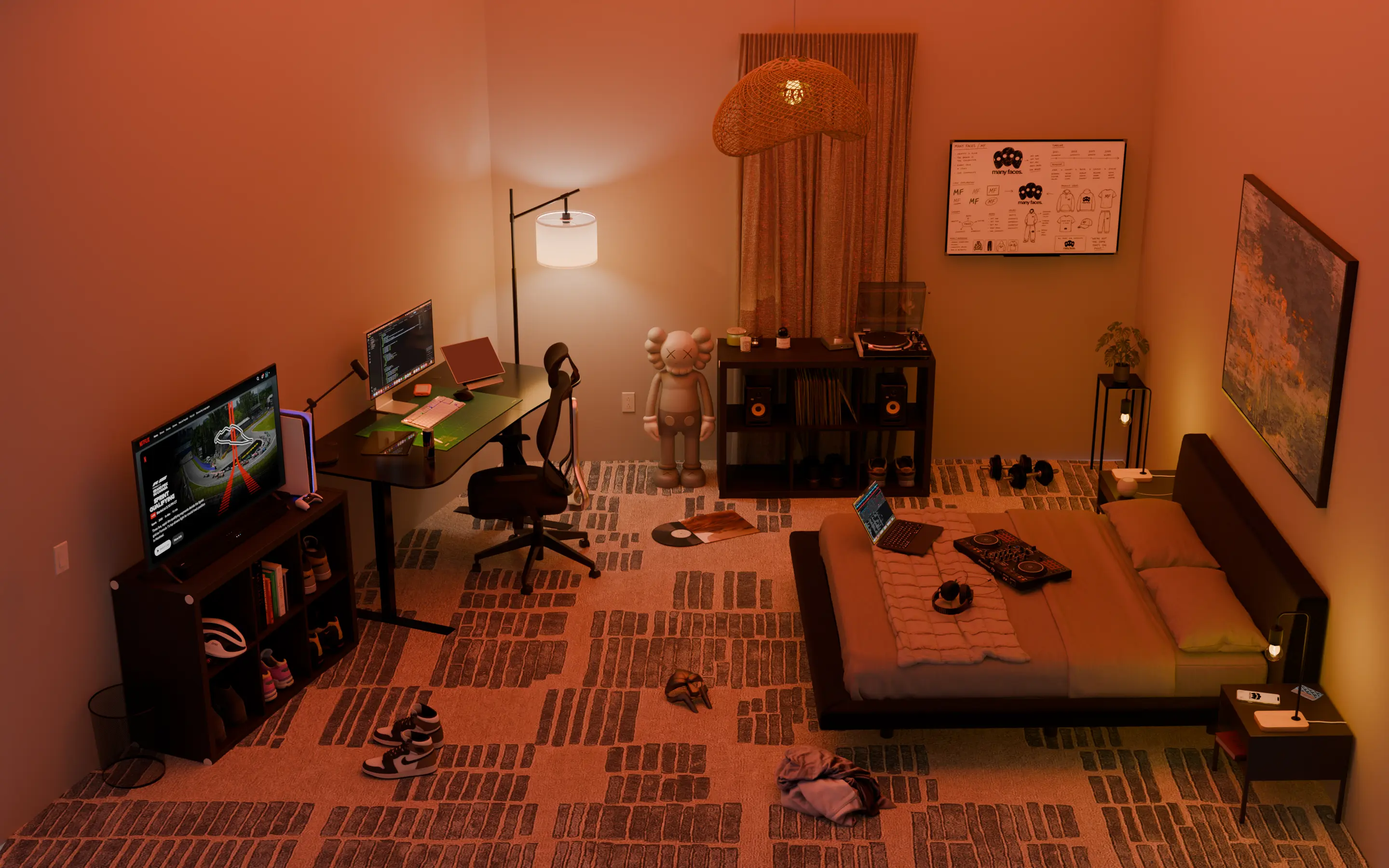
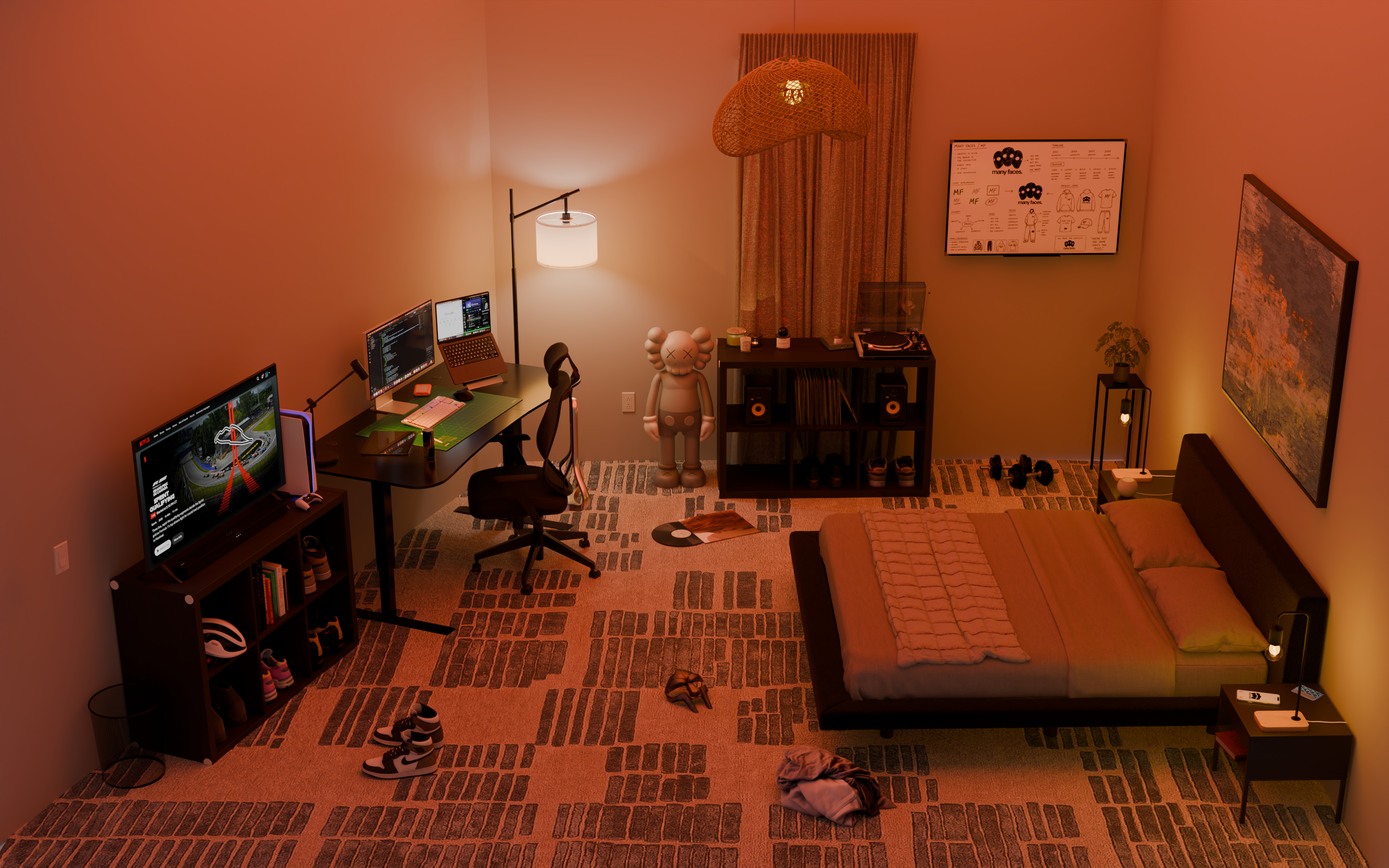
minor changes

diff --git a/main.js b/main.js
@@ -173,8 +173,7 @@ if (spClose) {
   spClose.addEventListener('click', () => {
     spotifyPanel.classList.remove('visible');
     spotifyOpen = false;
-    clearInterval(spotifyPollInterval);
-    spotifyPollInterval = null;
+    startPolling();
   });
 }
 
@@ -199,18 +198,34 @@ async function toggleSpotify() {
   if (spotifyOpen) {
     spotifyPanel.classList.remove('visible');
     spotifyOpen = false;
+    startPolling();
     return;
   }
   spotifyPanel.classList.add('visible');
   spotifyOpen = true;
+  startPolling();
 
-  // If the background prefetch already has data, the panel opens with
-  // content already sitting in the DOM — nothing to wait on.
-  if (!hasLoadedOnce) {
-    setSpContent(skeletonHTML());
-    await fetchNowPlaying(true);
-  }
+  // The background poll usually has data already; show the skeleton only if not.
+  if (!hasLoadedOnce) setSpContent(skeletonHTML());
+  await fetchNowPlaying(true);
 }
+
+// Fast while the panel is open, slow while closed (the token is shared by every visitor).
+const POLL_OPEN_MS   = 1500;
+const POLL_CLOSED_MS = 15000;
+let fetchInFlight = false;
+
+function startPolling() {
+  clearInterval(spotifyPollInterval);
+  if (document.hidden) { spotifyPollInterval = null; return; }
+  spotifyPollInterval = setInterval(() => fetchNowPlaying(true), spotifyOpen ? POLL_OPEN_MS : POLL_CLOSED_MS);
+}
+
+document.addEventListener('visibilitychange', () => {
+  if (document.hidden) { clearInterval(spotifyPollInterval); spotifyPollInterval = null; return; }
+  fetchNowPlaying(true);
+  startPolling();
+});
 
 async function getAccessToken() {
   const now = Date.now();
@@ -252,8 +267,12 @@ function skeletonHTML() {
 
 async function fetchNowPlaying(silent = false) {
   const content = document.getElementById('sp-content');
-  if (!content) return;
+  if (!content || fetchInFlight) return;
+  fetchInFlight = true;
+  try { await fetchNowPlayingInner(silent); } finally { fetchInFlight = false; }
+}
 
+async function fetchNowPlayingInner(silent) {
   if (DEMO_MODE) {
     if (!hasLoadedOnce) {
       hasLoadedOnce  = true;
@@ -270,19 +289,13 @@ async function fetchNowPlaying(silent = false) {
     });
     if (res.status === 204 || res.status === 404) {
       hasLoadedOnce = true;
-      if (currentTrackId !== null) {
-        currentTrackId = null;
-        setSpContent(`<div class="sp-idle">Nothing playing right now.</div>`);
-      }
+      showIdle();
       return;
     }
     const data = await res.json();
     if (!data?.item) {
       hasLoadedOnce = true;
-      if (currentTrackId !== null) {
-        currentTrackId = null;
-        setSpContent(`<div class="sp-idle">Nothing playing right now.</div>`);
-      }
+      showIdle();
       return;
     }
 
@@ -303,11 +316,81 @@ async function fetchNowPlaying(silent = false) {
   }
 }
 
-// Prefetch immediately on page load, then keep polling in the background
-// regardless of whether the panel is open — so by the time it's clicked,
-// the data (and album art) is already sitting in the DOM and warmed in cache.
+/* ── Idle: show the playlist when nothing is playing ── */
+const PLAYLIST_ID  = '39M6p4ekVA1uh1smT8lU7K';
+const PLAYLIST_URL = 'https://open.spotify.com/playlist/39M6p4ekVA1uh1smT8lU7K?si=86a6dcfe42bb42a7';
+const PLAYLIST_TTL_MS = 60000;
+let playlistCache = null;
+let playlistFetchedAt = 0;
+let lastIdleHTML = '';
+
+const esc = (t) => String(t).replace(/[&<>"']/g, c => ({ '&': '&amp;', '<': '&lt;', '>': '&gt;', '"': '&quot;', "'": '&#39;' })[c]);
+const fmtDuration = (ms) => { const s = Math.round(ms / 1000); return `${Math.floor(s / 60)}:${String(s % 60).padStart(2, '0')}`; };
+
+async function getPlaylist() {
+  if (playlistCache && Date.now() - playlistFetchedAt < PLAYLIST_TTL_MS) return playlistCache;
+  const token  = await getAccessToken();
+  const fields = 'name,images,items.total,items.items(item(name,duration_ms,artists(name)))';
+  const res = await fetch(`https://api.spotify.com/v1/playlists/${PLAYLIST_ID}?fields=${encodeURIComponent(fields)}`, {
+    headers: { 'Authorization': `Bearer ${token}` }
+  });
+  if (!res.ok) throw new Error('playlist ' + res.status);
+  const d = await res.json();
+  playlistCache = {
+    name:   d.name,
+    cover:  d.images?.[1]?.url || d.images?.[0]?.url,
+    total:  d.items.total,
+    tracks: d.items.items.map(x => x.item).filter(Boolean).slice(0, 4).map(t => ({
+      name:   t.name,
+      artist: t.artists.map(a => a.name).join(', '),
+      dur:    fmtDuration(t.duration_ms)
+    }))
+  };
+  playlistFetchedAt = Date.now();
+  return playlistCache;
+}
+
+async function showIdle() {
+  const wasIdle = currentTrackId === 'idle';
+  if (wasIdle && Date.now() - playlistFetchedAt < PLAYLIST_TTL_MS) return;
+  currentTrackId = 'idle';
+  const label = `<div class="sp-pl-label">NOT PLAYING RIGHT NOW. HERE’S SOME SONGS I LIKE.</div>`;
+  const open  = `<a class="sp-pl-open" href="${PLAYLIST_URL}" target="_blank" rel="noopener">OPEN FULL PLAYLIST <svg class="sp-pl-arrow" viewBox="0 0 12 8" aria-hidden="true"><path d="M0 4h10.5M7.5 1l3 3-3 3" fill="none" stroke="currentColor" stroke-width="1"/></svg></a>`;
+  let pl;
+  try { pl = await getPlaylist(); } catch {
+    if (!wasIdle) setSpContent(`<div class="sp-pl">${label}${open}</div>`);
+    return;
+  }
+  if (currentTrackId !== 'idle') return;
+  const tracks = pl.tracks.map((t, i) => `
+    <div class="sp-pl-track">
+      <span class="sp-pl-num">${String(i + 1).padStart(2, '0')}</span>
+      <div class="sp-pl-t"><span class="sp-pl-song">${esc(t.name)}</span><span class="sp-pl-artist">${esc(t.artist)}</span></div>
+      <span class="sp-pl-dur">${t.dur}</span>
+    </div>`).join('');
+  const html = `
+    <div class="sp-pl">
+      ${label}
+      <a class="sp-pl-head" href="${PLAYLIST_URL}" target="_blank" rel="noopener">
+        <div class="sp-pl-art">${pl.cover ? `<img src="${esc(pl.cover)}" alt="" onload="this.classList.add('loaded')">` : ''}</div>
+        <div class="sp-pl-info">
+          <span class="sp-pl-name">${esc(pl.name)}</span>
+          <span class="sp-pl-meta">${pl.total} tracks · updated weekly</span>
+        </div>
+      </a>
+      <div class="sp-pl-rule"></div>
+      <div class="sp-pl-tracks">${tracks}</div>
+      ${open}
+    </div>`;
+  // Re-render only when switching into idle or when the playlist itself changed
+  if (wasIdle && html === lastIdleHTML) return;
+  lastIdleHTML = html;
+  setSpContent(html);
+}
+
+// Prefetch on load so the panel opens with data already in place, then keep polling.
 fetchNowPlaying(true);
-spotifyPollInterval = setInterval(() => fetchNowPlaying(true), 4000);
+startPolling();
 
 /* Exact line data extracted from the Figma waveform SVG (8:112)
    Each entry: [x, y1, y2] — 42 lines, stroke-width 5, 10px spacing */

diff --git a/style.css b/style.css
@@ -91,7 +91,6 @@ section { position: relative; z-index: 1; scroll-snap-align: start; }
   display: block;
   opacity: 0;
   transition: opacity 1.4s ease;
-  filter: brightness(0.92) saturate(1.0);
 }
 #room-img.loaded { opacity: 1; }
 
@@ -225,21 +224,6 @@ body.day-mode .dot-label::after {
   letter-spacing: 0.2em;
   text-transform: uppercase;
   margin-top: 5px;
-  text-shadow: 0 1px 4px rgba(0,0,0,0.3);
-}
-
-.room-hint {
-  position: absolute;
-  bottom: 30px; left: 50%;
-  transform: translateX(-50%);
-  z-index: 30;
-  font-family: 'DM Mono', monospace;
-  font-size: 0.58rem;
-  color: rgba(255,255,255,0.5);
-  letter-spacing: 0.22em;
-  text-transform: uppercase;
-  opacity: 0;
-  animation: fadeUp 0.8s 2.2s forwards;
   text-shadow: 0 1px 4px rgba(0,0,0,0.3);
 }
 
@@ -392,6 +376,40 @@ body.day-mode .dot-label::after {
   min-height: 72px;
   padding: 0;
 }
+
+/* Idle: nothing playing, so show the playlist instead */
+.sp-pl { display: flex; flex-direction: column; gap: 8px; width: 100%; }
+.sp-pl-label {
+  font-family: 'DM Mono', monospace;
+  font-size: 7.5px; line-height: 1.6; letter-spacing: 0.06em;
+  color: rgba(255,255,255,0.45);
+  padding-right: 20px;
+}
+.sp-pl-head { display: flex; align-items: center; gap: 8px; color: inherit; text-decoration: none; }
+.sp-pl-head:hover { opacity: 1; }
+.sp-pl-art { width: 72px; height: 72px; border-radius: 8px; overflow: hidden; flex-shrink: 0; background: rgba(255,255,255,0.08); }
+.sp-pl-art img { width: 100%; height: 100%; object-fit: cover; display: block; opacity: 0; transition: opacity 0.3s ease; }
+.sp-pl-art img.loaded { opacity: 1; }
+.sp-pl-info { min-width: 0; display: flex; flex-direction: column; gap: 1px; line-height: 1.25; }
+.sp-pl-name { font-family: 'Inter', sans-serif; font-weight: 600; font-size: 13px; color: #fff; }
+.sp-pl-meta { font-family: 'Inter', sans-serif; font-weight: 400; font-size: 11px; color: rgba(255,255,255,0.55); }
+.sp-pl-rule { height: 1px; background: rgba(255,255,255,0.1); }
+.sp-pl-tracks { display: flex; flex-direction: column; gap: 2px; }
+.sp-pl-track { display: flex; align-items: center; gap: 8px; padding: 4px; border-radius: 5px; }
+.sp-pl-num, .sp-pl-dur { font-family: 'DM Mono', monospace; font-size: 9px; line-height: 1.4; color: rgba(255,255,255,0.3); flex-shrink: 0; }
+.sp-pl-t { flex: 1; min-width: 0; display: flex; flex-direction: column; font-family: 'Inter', sans-serif; font-weight: 400; line-height: 1.3; }
+.sp-pl-t span { white-space: nowrap; overflow: hidden; text-overflow: ellipsis; }
+.sp-pl-song { font-size: 11px; color: rgba(255,255,255,0.88); }
+.sp-pl-artist { font-size: 9.5px; color: rgba(255,255,255,0.45); }
+.sp-pl-open {
+  font-family: 'DM Mono', monospace;
+  font-size: 9px; line-height: 1.6; letter-spacing: 0.06em;
+  color: rgba(255,255,255,0.45);
+  text-decoration: none;
+  transition: color 0.2s;
+}
+.sp-pl-open:hover { color: rgba(255,255,255,0.85); opacity: 1; }
+.sp-pl-arrow { width: 1.3em; height: 0.85em; vertical-align: -0.02em; margin-left: 2px; }
 
 /* Skeleton shown only if the panel is opened before the background
    prefetch has resolved even once */

diff --git a/index.html b/index.html
@@ -11,7 +11,7 @@
   <link rel="stylesheet" href="style.css">
   <link rel="preconnect" href="https://fonts.googleapis.com">
   <link rel="preconnect" href="https://fonts.gstatic.com" crossorigin>
-  <link href="https://fonts.googleapis.com/css2?family=Archivo:wght@400;600;800&family=Bebas+Neue&family=IBM+Plex+Sans:ital,wght@0,400;0,700;1,400&family=Cormorant+Garamond:ital,wght@0,300;0,400;1,300&family=DM+Mono:wght@300;400&family=Inter:wght@700&display=swap" rel="stylesheet">
+  <link href="https://fonts.googleapis.com/css2?family=Archivo:wght@400;600;800&family=Bebas+Neue&family=IBM+Plex+Sans:ital,wght@0,400;0,700;1,400&family=Cormorant+Garamond:ital,wght@0,300;0,400;1,300&family=DM+Mono:wght@300;400&family=Inter:wght@400;600;700&display=swap" rel="stylesheet">
 </head>
 <body>
 
@@ -32,8 +32,6 @@
   <section class="s-room">
     <div class="room-img-wrap">
       <img id="room-img" src="room/nighttime.webp" alt="Sean's Room" />
-
-      <div class="room-hint">explore the room</div>
 
       <!-- Corner tag: location / date / time -->
       <div class="corner-tag" id="corner-tag">

diff --git a/pages.css b/pages.css
@@ -67,7 +67,7 @@ a:hover { opacity: 0.75; }
 .ab-hero { position: relative; height: 636px; padding: 120px var(--side) 0; }
 .ab-text { max-width: min(600px, calc(100vw - 560px - 2 * var(--side))); }
 .ab-hero .pg-label { font-weight: 700; }
-.ab-hero .pg-title { font-size: clamp(44px, 4.6vw, 66px); }
+.ab-hero .pg-title { font-size: clamp(44px, 4.6vw, 66px); font-weight: 700; }
 .ab-lede { margin-top: 17px; font-size: clamp(18px, 1.53vw, 22px); }
 .ab-body { margin-top: 14px; font-size: 16px; }
 .ab-portrait { position: absolute; right: 0; top: 0; width: 560px; height: 636px; object-fit: cover; }

diff --git a/work.html b/work.html
@@ -155,7 +155,7 @@
     .pj-eyebrow { color: var(--accent, var(--color-accent)); }
     .pj-text h2 {
       margin: 20px 0 0;
-      font-family: 'Artific Trial', 'Archivo', sans-serif;
+      font-family: 'Case Text', 'Archivo', sans-serif;
       font-weight: 700;
       font-size: clamp(34px, 3.4vw, 52px);
       line-height: 0.98;
